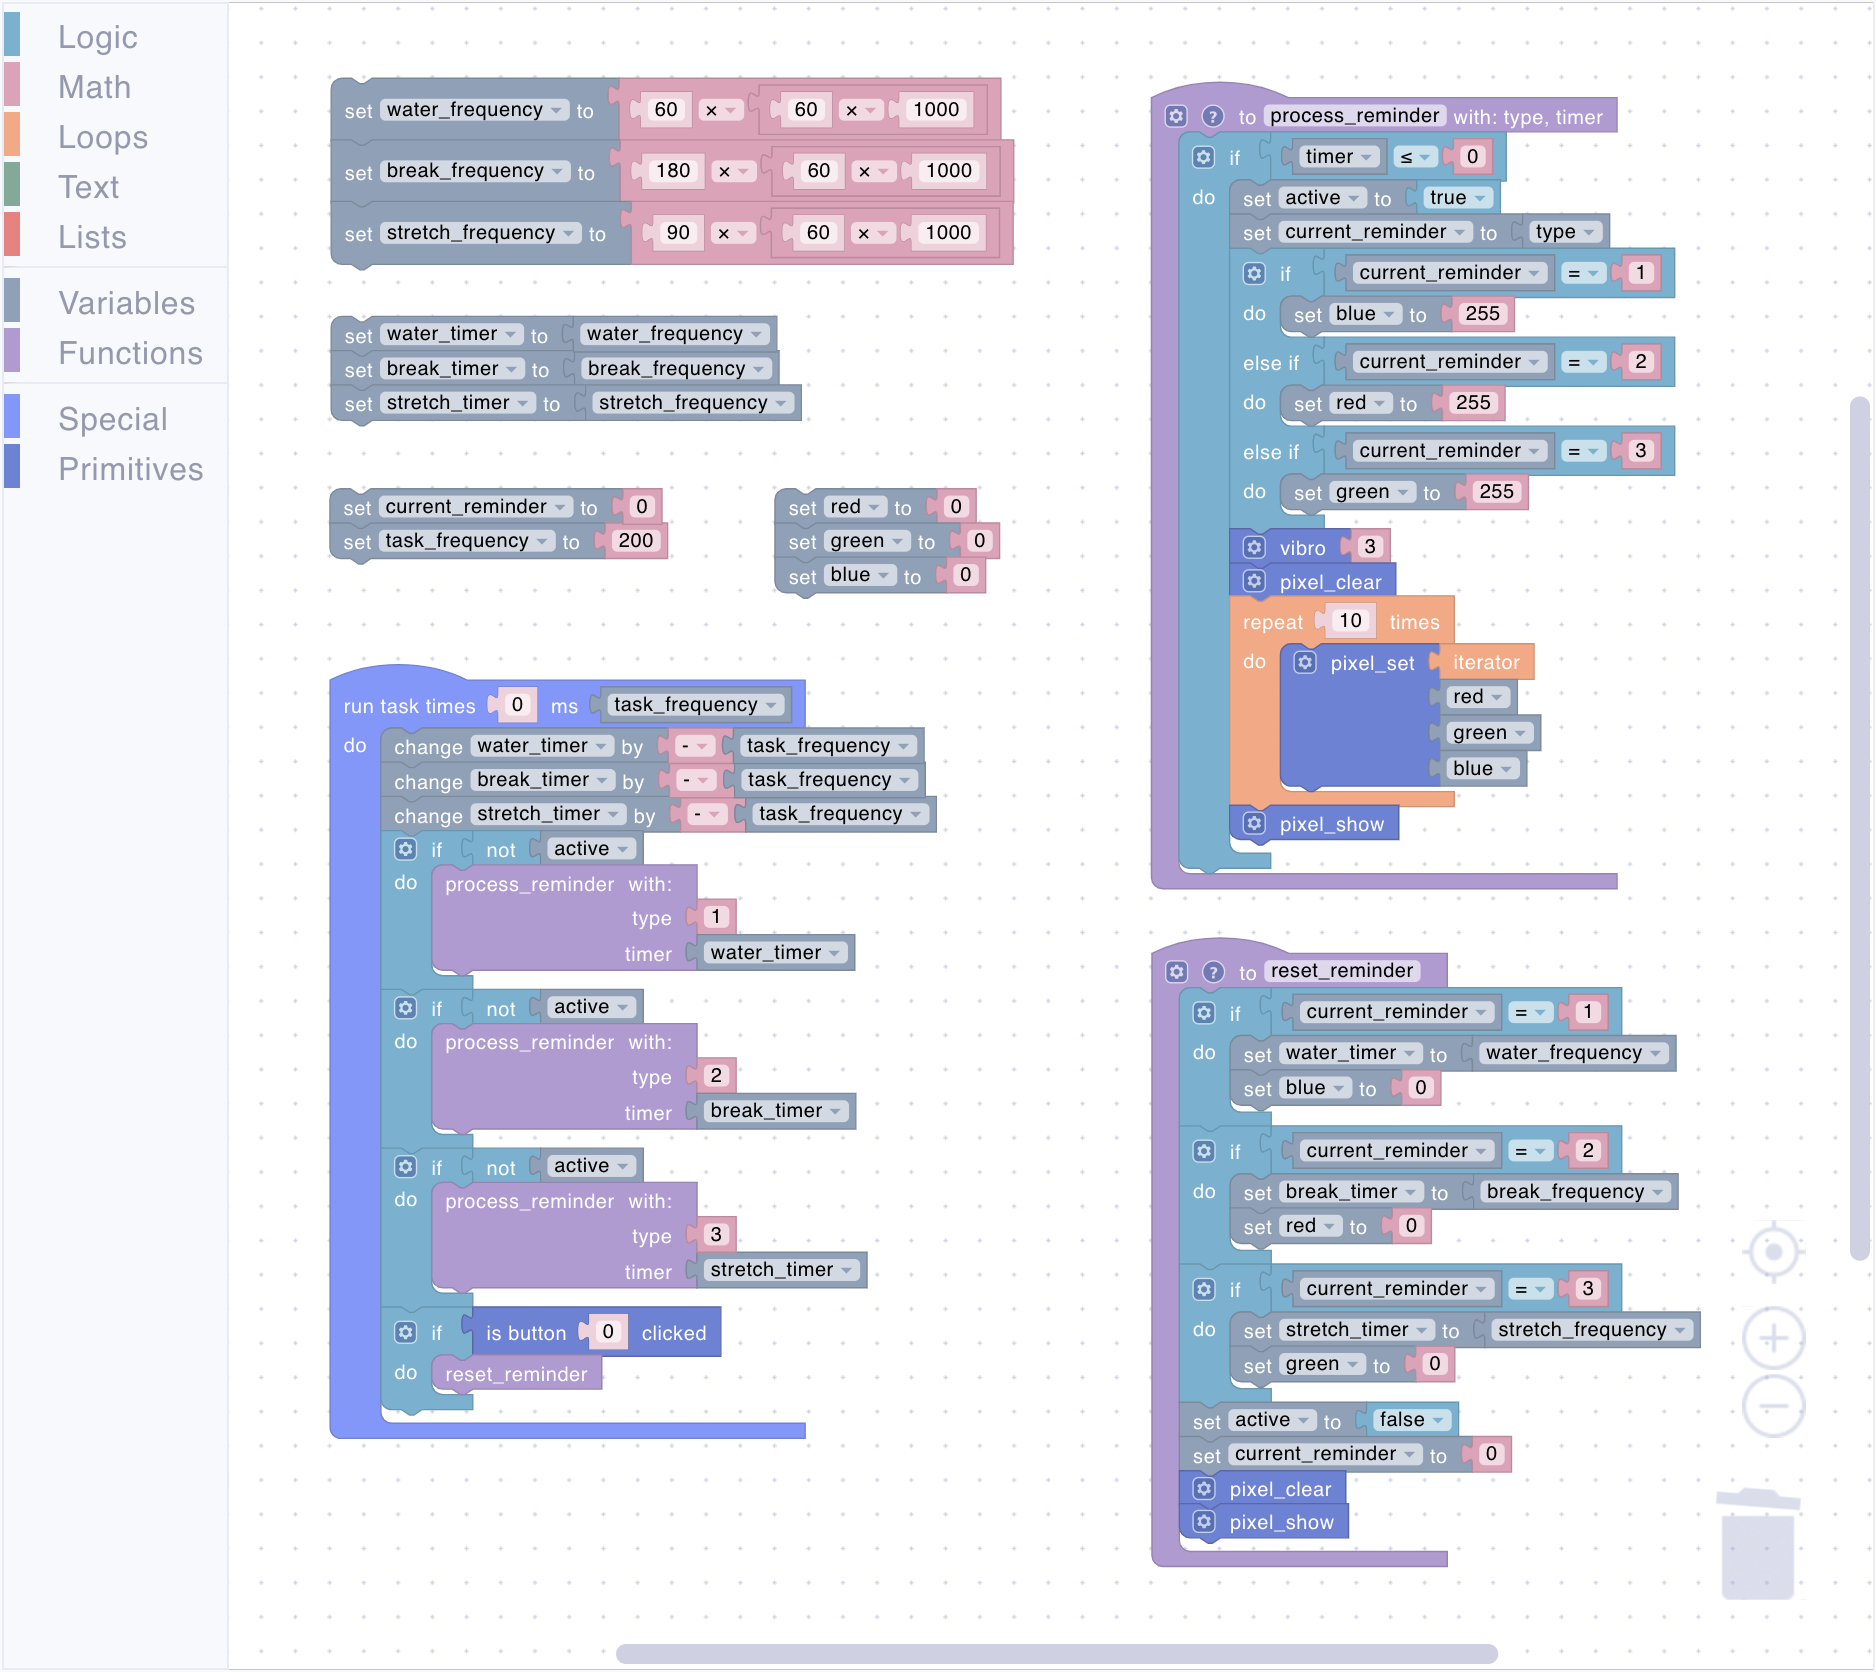
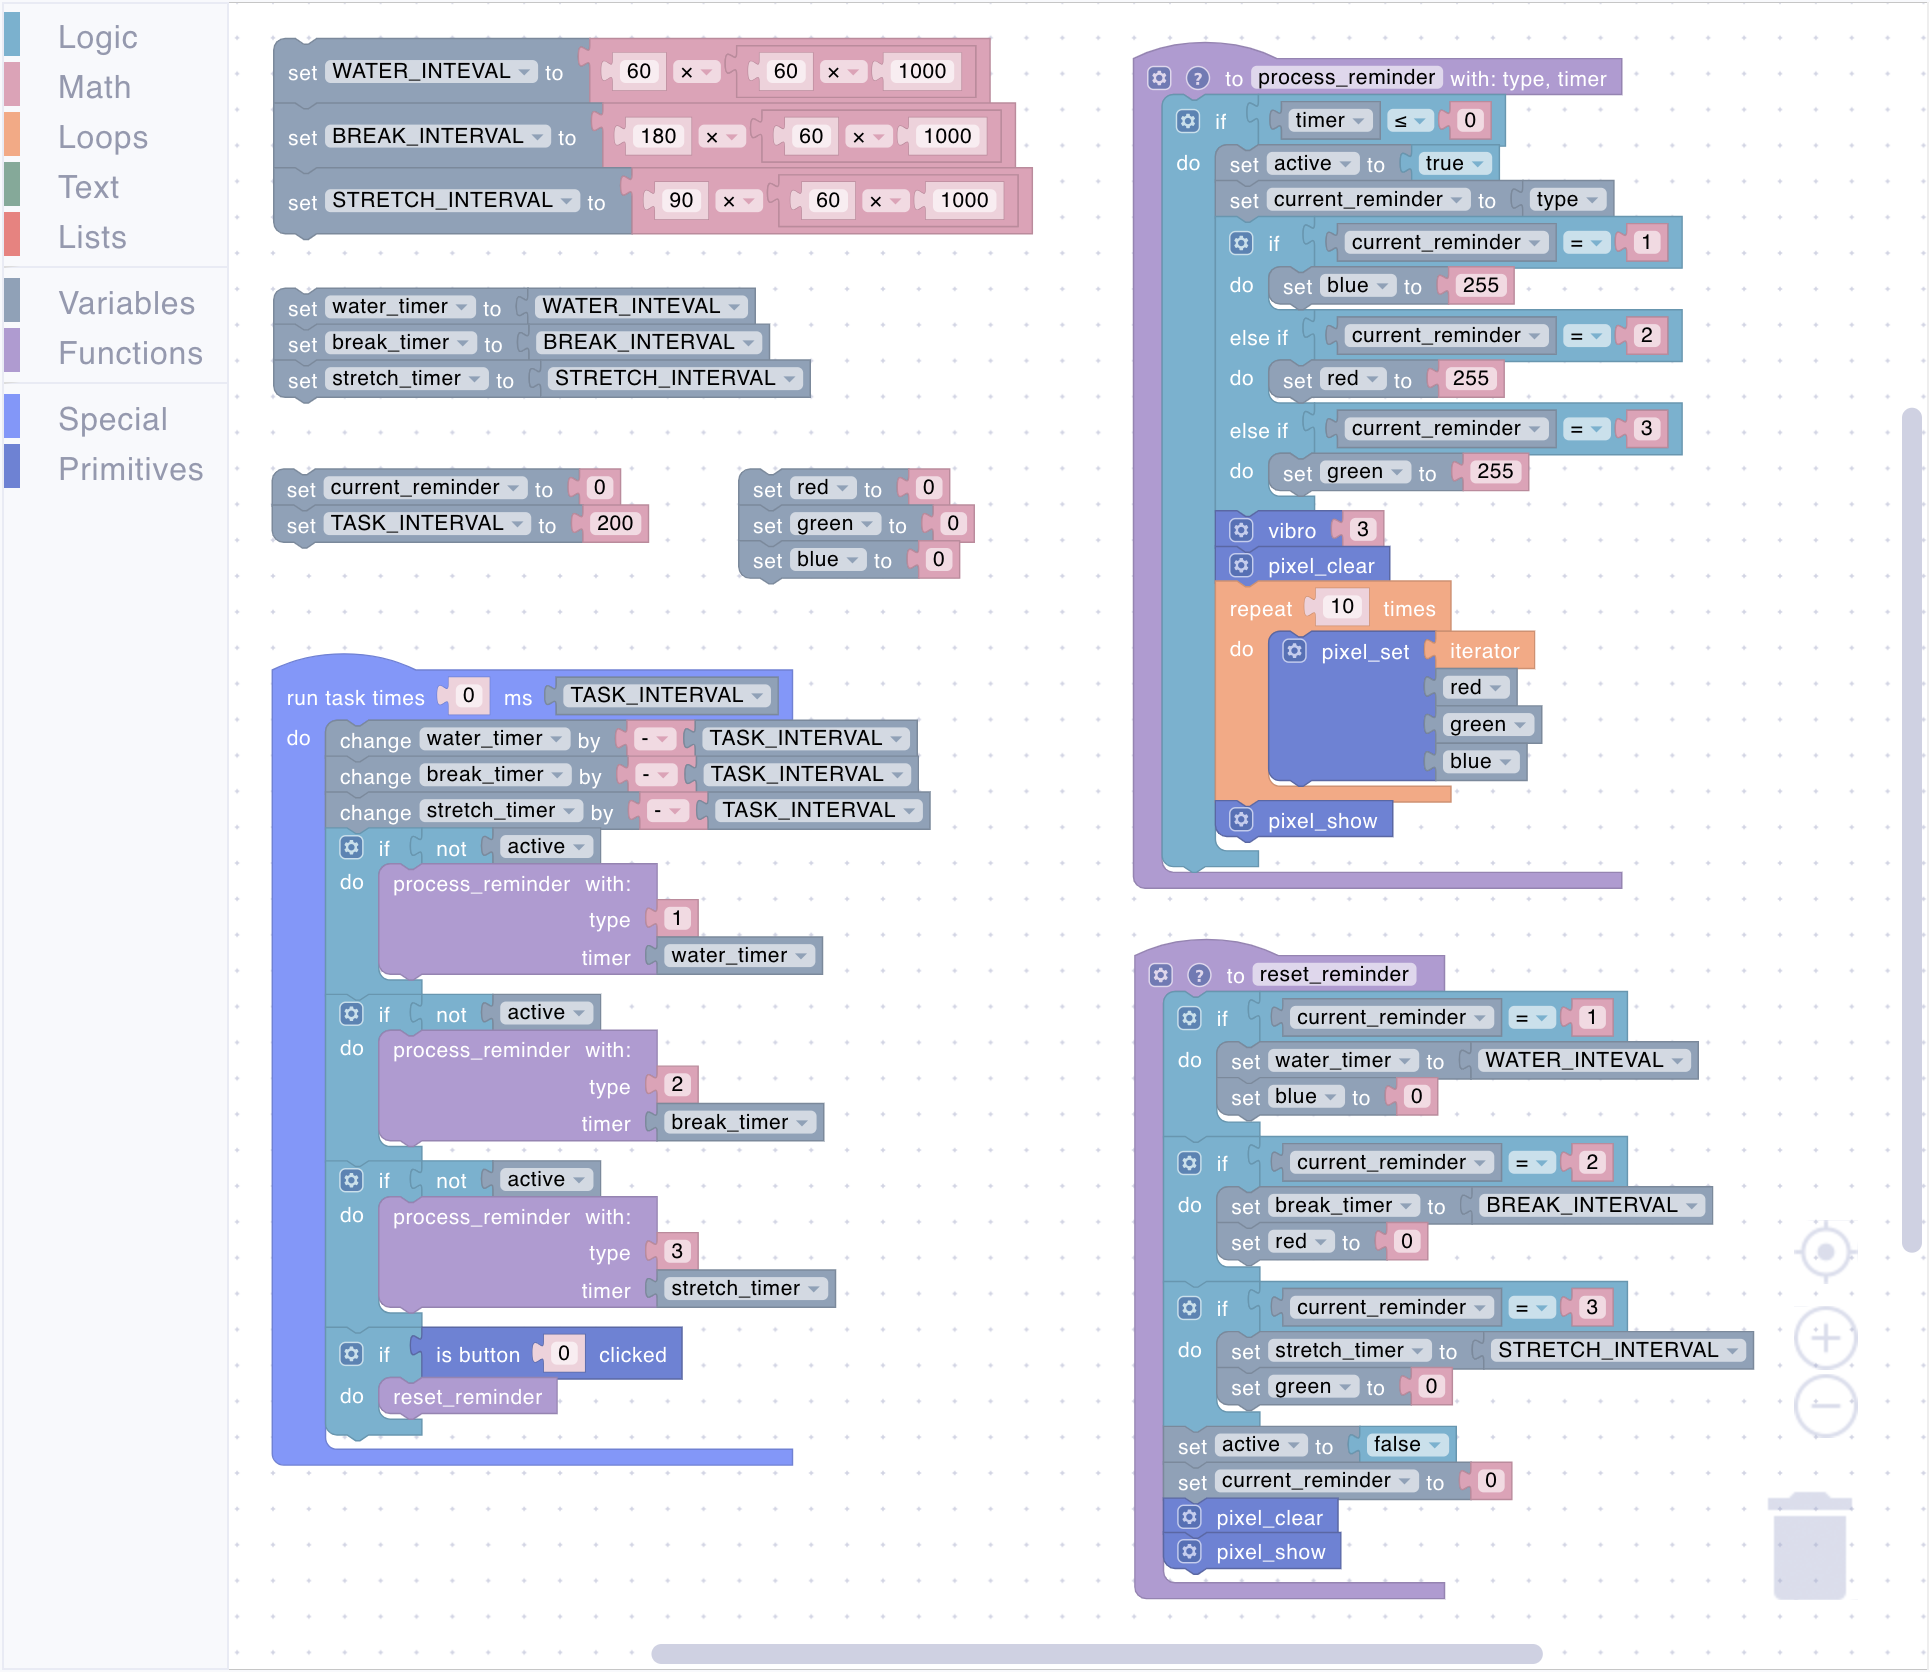
Add new example to the Uniot Badge article

diff --git a/guides/uniot-badge.md b/guides/uniot-badge.md
@@ -28,10 +28,6 @@ You can redeem the promo code by scanning the QR code on your badge. This promo 
 
 A script and a dashboard, both named 'Uniot Promo Badge,' will also be created on the platform for demonstration purposes. You can deploy the script to the badge and try it out in interaction with the dashboard.
 
-<div align="left"><figure><img src="../.gitbook/assets/uniot_badge_script_promo_preview.png" alt=""><figcaption><p>Promo Script</p></figcaption></figure></div>
-
-<div align="left"><figure><img src="../.gitbook/assets/uniot_badge_dashboard_promo_preview.png" alt=""><figcaption><p>Promo Dashboard</p></figcaption></figure></div>
-
 Learn more about this script below in the [Script Examples](uniot-badge.md#promo-badge) section. If you wish, you can delete these dashboard and script and create your own (the plan extension will remain).
 
 ## Functionality Overview
@@ -238,18 +234,18 @@ The visual script generates the following code:
 ;
 ;;; end-user-library
 
-(define water_frequency ())
+(define WATER_INTEVAL ())
 (define water_timer ())
-(define red ())
 (define current_reminder ())
-(define break_frequency ())
+(define red ())
+(define BREAK_INTERVAL ())
 (define break_timer ())
+(define TASK_INTERVAL ())
 (define green ())
-(define task_frequency ())
-(define stretch_frequency ())
+(define STRETCH_INTERVAL ())
+(define active ())
 (define stretch_timer ())
 (define blue ())
-(define active ())
 ; Describe this function...
 (defun process_reminder
  (type timer)
@@ -281,55 +277,55 @@ The visual script generates the following code:
  (if
   (= current_reminder 1)
   (list
-   (setq water_timer water_frequency)
+   (setq water_timer WATER_INTEVAL)
    (setq blue 0)))
  (if
   (= current_reminder 2)
   (list
-   (setq break_timer break_frequency)
+   (setq break_timer BREAK_INTERVAL)
    (setq red 0)))
  (if
   (= current_reminder 3)
   (list
-   (setq stretch_timer stretch_frequency)
+   (setq stretch_timer STRETCH_INTERVAL)
    (setq green 0)))
  (setq active ())
  (setq current_reminder 0)
  (pixel_clear)
  (pixel_show))
 
-(setq water_frequency
+(setq WATER_INTEVAL
  (* 60
   (* 60 1000)))
-(setq break_frequency
+(setq BREAK_INTERVAL
  (* 180
   (* 60 1000)))
-(setq stretch_frequency
+(setq STRETCH_INTERVAL
  (* 90
   (* 60 1000)))
 
-(setq water_timer water_frequency)
-(setq break_timer break_frequency)
-(setq stretch_timer stretch_frequency)
+(setq water_timer WATER_INTEVAL)
+(setq break_timer BREAK_INTERVAL)
+(setq stretch_timer STRETCH_INTERVAL)
 
 (setq current_reminder 0)
-(setq task_frequency 200)
+(setq TASK_INTERVAL 200)
 
 (setq red 0)
 (setq green 0)
 (setq blue 0)
 
-(task 0 task_frequency '
+(task 0 TASK_INTERVAL '
  (list
   (setq water_timer
    (+ water_timer
-    (- task_frequency)))
+    (- TASK_INTERVAL)))
   (setq break_timer
    (+ break_timer
-    (- task_frequency)))
+    (- TASK_INTERVAL)))
   (setq stretch_timer
    (+ stretch_timer
-    (- task_frequency)))
+    (- TASK_INTERVAL)))
   (if
    (not active)
    (list
@@ -352,10 +348,10 @@ The visual script generates the following code:
 Let's take a closer look at the individual parts of the script:
 
 * **Variables Initialization**
-  * **`task_frequency`**: The frequency of task execution (in **milliseconds**).
-  * **`water_frequency`**: How often you want to drink water (every 60 minutes, in **ms**).
-  * **`break_frequency`**: How often you want to take a break (every 180 minutes, in **ms**).
-  * **`stretch_frequency`**: How often you want to stretch (every 90 minutes, in **ms**).
+  * **`TASK_INTERVAL`**: The task execution interval (in **ms**).
+  * **`WATER_INTERVAL`**: How often you want to drink water (every 60 minutes, in **ms**).
+  * **`BREAK_INTERVAL`**: How often you want to take a break (every 180 minutes, in **ms**).
+  * **`STRETCH_INTEVAL`**: How often you want to stretch (every 90 minutes, in **ms**).
   * **`water_timer`**: The water timer, set to the corresponding frequency value.
   * **`break_timer`**: The break timer, set to the corresponding frequency value.
   * **`stretch_timer`**: The stretch timer, set to the corresponding frequency value.
@@ -363,12 +359,274 @@ Let's take a closer look at the individual parts of the script:
   * **`green`**: The brightness of the green color of the LEDs.
   * **`blue`**: The brightness of the blue color of the LEDs.
   * **`current_reminder`**: The numeric value of the reminder (`1` for water, `2` for break, `3` for stretch).
+* **Run Task Block**: Configured to run every `TASK_INTERVAL` milliseconds indefinitely (as the `times` parameter is set to `0`).
 * **Process Reminder Block**: The `process_reminder` function processes provided reminder type (numeric value of the reminder) and it's corresponding timer (`timer`). If the timer is expired:
   * **Set Info**: Sets variable `active` as `true` (an indicator that there is an active reminder). Sets variable `current_reminder` to the numeric value of the reminder (the `type` argument passed to the function).
   * **Set Color**: Sets color according to the `current_reminder`.
   * **Notification Block**: Runs vibration motor and turns LEDs on by calling the corresponding primitives.
 * **Reset Reminder Block**: The `reset_reminder` function, as the name implies, resets the current reminder.
-* **Run Task Block**: Configured to run every `task_frequency` milliseconds indefinitely (as the `times` parameter is set to `0`).
-* **Update Timers Block**: Reduces the value of the timers by `task_frequency` every task execution.
+* **Update Timers Block**: Reduces the value of the timers by `TASK_INTERVAL` every task execution.
 * **Check Reminders Block**: Checks each type of reminder by calling the `process_reminder` function if no reminder is active (do not processes new reminders until the current one is acknowledged).
 * **Button Check Block**: Monitors if the button is clicked. When clicked, resets current reminder by calling the `reset_reminder` function.
+
+### Gesture-Based Appliance Control
+
+With the following script the badge can act as as a control device for household appliances. There is a tap gesture (quick down-up motion) detection. The appliance state switched when tap is detected.
+
+<figure><img src="../.gitbook/assets/uniot_badge_script_appliance_control.png" alt=""><figcaption><p>The visual script</p></figcaption></figure>
+
+The visual script generates the following code:
+
+{% code lineNumbers="true" %}
+```lisp
+;;; begin-user-library
+;; This block describes the library of user functions.
+;; So the editor knows that your device implements it.
+;
+; (defjs pixel_clear ()) ;-> Bool
+; (defjs pixel_set (_0 _1 _2 _3)) ;-> Bool
+; (defjs pixel_show ()) ;-> Bool
+; (defjs tof_distance ()) ;-> Int
+;
+;;; end-user-library
+
+(define TAP_DURATION ())
+(define TASK_INTERVAL ())
+(define is_detector ())
+(define distance ())
+(define TAP_TRESH_MIN ())
+(define fixed_distance ())
+(define tap_timer ())
+(define TAP_TRESH_MAX ())
+(define state ())
+(define tap_state ())
+; Describe this function...
+(defun updateLEDs ()
+ (pixel_clear)
+ (if
+  (is_event 'appliance-state)
+  (list
+   (setq state
+    (=
+     (pop_event 'appliance-state) 1))))
+ (if state
+  (list
+   (while
+    (< #itr 10)
+    (pixel_set #itr 0 5 0))))
+ (pixel_show))
+; Describe this function...
+(defun trackGesture ()
+ (if
+  (= tap_state 0)
+  (list
+   (if
+    (and
+     (>= distance TAP_TRESH_MIN)
+     (<= distance TAP_TRESH_MAX))
+    (list
+     (setq tap_state 1)
+     (setq tap_timer TAP_DURATION))))
+  (list
+   (setq tap_timer
+    (+ tap_timer
+     (- TASK_INTERVAL)))
+   (if
+    (<= tap_timer 0)
+    (list
+     (setq tap_state 0)
+     (setq tap_timer 0))
+    (if
+     (and
+      (= tap_state 1)
+      (< distance TAP_TRESH_MIN))
+     (list
+      (setq tap_state 2))
+     (if
+      (and
+       (= tap_state 2)
+       (and
+        (>= distance TAP_TRESH_MIN)
+        (< distance TAP_TRESH_MAX)))
+      (list
+       (push_event 'appliance-state
+        (not state))
+       (setq tap_state 0)
+       (setq tap_timer 0))))))))
+
+(setq TAP_DURATION 400)
+(setq TAP_TRESH_MIN 150)
+(setq TAP_TRESH_MAX 500)
+(setq tap_state 0)
+(setq tap_timer 0)
+
+(setq TASK_INTERVAL 30)
+(setq distance 0)
+(setq state ())
+
+(task 0 TASK_INTERVAL '
+ (list
+  (setq distance
+   (tof_distance))
+  (trackGesture)
+  (updateLEDs)))
+```
+{% endcode %}
+
+The script consist of the following parts:
+
+* **Variables Initialization**
+  * **`TASK_INTERVAL`**: The frequency of task execution (in **ms**).
+  * **`distance`**: The current value of the distance sensor.
+  * **`state`**: The apliance state (switched by a tap).
+  * **`tap_state`**: The current gesture state:
+    * **`0`**: No tap in progress.
+    * **`1`**: Hand started moving within the thresholds.
+    * **`2`**: Hand detected below minimum threshold.
+    * **`3`**: Hand is back within the thresholds.
+  * **`TAP_DURATION`**: The maximum allowed time (in **ms**) for a valid tap.
+  * **`TAP_TRESH_MAX`**: The sensor distance below which gesture detecion starts.
+  * **`TAP_TRESH_MIN`**: The sensor distance below which a tap state is considered as **`2`**.
+  * **`tap_timer`**: The timer to track a tap validity.
+* **Run Task Block**: Configured to run every `TASK_INTERVAL` milliseconds indefinitely (as the `times` parameter is set to `0`).
+* **Distance Sensor Reading**: Calls the `tof_distance` primitive and sets the value of the sensor to the `distance` variable.
+* **Gesture Recognition Block**: The `trackGesture` function determines whether a tap has been performed and emits a global event if it has.
+* **Update LEDs Block**: Listens to a global event, changes the local state and updates LEDs according to this state.
+
+### Appliance Control and Security Alarm
+
+With a few additions to the previous script, the device can turn into a motion detector with just one event (this event can be generated by a widget on the dashboard or by another device).
+
+<figure><img src="../.gitbook/assets/uniot_badge_script_appliance_control.png" alt=""><figcaption><p>The visual script</p></figcaption></figure>
+
+The visual script generates the following code:
+
+{% code lineNumbers="true" %}
+```lisp
+;;; begin-user-library
+;; This block describes the library of user functions.
+;; So the editor knows that your device implements it.
+;
+; (defjs pixel_clear ()) ;-> Bool
+; (defjs pixel_set (_0 _1 _2 _3)) ;-> Bool
+; (defjs pixel_show ()) ;-> Bool
+; (defjs tof_distance ()) ;-> Int
+;
+;;; end-user-library
+
+(define TAP_DURATION ())
+(define TASK_INTERVAL ())
+(define TAP_TRESH_MIN ())
+(define distance ())
+(define TAP_TRESH_MAX ())
+(define state ())
+(define tap_timer ())
+(define is_detector ())
+(define tap_state ())
+(define fixed_distance ())
+; Describe this function...
+(defun updateLEDs ()
+ (pixel_clear)
+ (if
+  (is_event 'appliance-state)
+  (list
+   (setq state
+    (=
+     (pop_event 'appliance-state) 1))))
+ (if state
+  (list
+   (while
+    (< #itr 10)
+    (pixel_set #itr 0 5 0))))
+ (pixel_show))
+; Describe this function...
+(defun guardCheck ()
+ (if
+  (is_event 'protection)
+  (list
+   (setq is_detector
+    (=
+     (pop_event 'protection) 1))
+   (if is_detector
+    (list
+     (setq fixed_distance distance))
+    (list
+     (push_event 'alarm 0))))))
+; Describe this function...
+(defun trackIntrusion ()
+ (if
+  (not
+   (= distance fixed_distance))
+  (list
+   (push_event 'alarm 1))))
+; Describe this function...
+(defun trackGesture ()
+ (if
+  (= tap_state 0)
+  (list
+   (if
+    (and
+     (>= distance TAP_TRESH_MIN)
+     (<= distance TAP_TRESH_MAX))
+    (list
+     (setq tap_state 1)
+     (setq tap_timer TAP_DURATION))))
+  (list
+   (setq tap_timer
+    (+ tap_timer
+     (- TASK_INTERVAL)))
+   (if
+    (<= tap_timer 0)
+    (list
+     (setq tap_state 0)
+     (setq tap_timer 0))
+    (if
+     (and
+      (= tap_state 1)
+      (< distance TAP_TRESH_MIN))
+     (list
+      (setq tap_state 2))
+     (if
+      (and
+       (= tap_state 2)
+       (and
+        (>= distance TAP_TRESH_MIN)
+        (< distance TAP_TRESH_MAX)))
+      (list
+       (push_event 'appliance-state
+        (not state))
+       (setq tap_state 0)
+       (setq tap_timer 0))))))))
+
+(setq TASK_INTERVAL 30)
+(setq distance 0)
+(setq state ())
+(setq is_detector ())
+(setq fixed_distance 0)
+
+(setq TAP_DURATION 400)
+(setq TAP_TRESH_MIN 150)
+(setq TAP_TRESH_MAX 500)
+(setq tap_state 0)
+(setq tap_timer 0)
+
+(task 0 TASK_INTERVAL '
+ (list
+  (setq distance
+   (tof_distance))
+  (guardCheck)
+  (if is_detector
+   (list
+    (trackIntrusion))
+   (list
+    (trackGesture)
+    (updateLEDs)))))
+```
+
+This script has everything from the previous script and the following additions:
+
+* **Variables Initialization**
+  * **`is_detector`**: Indicates that the device is operating as a motion detector.
+  * **`fixed_distance`**: Stores the value from the distance sensor at the time of arming
+* **Intrusion Recognition Block**: The `trackIntrusion` function checks whether the value from the distance sensor has changed after arming, and if so, generates a global event `alarm` with value `1`.
+* **Check Guard Block**: Responds to the `protection` event by updating the `is_detector` variable to the event's value. Fixes the current value of the distance sensor if the device is in armed mode, or generates an `alarm` event with a value of `0` if the device is in the switch mode.
